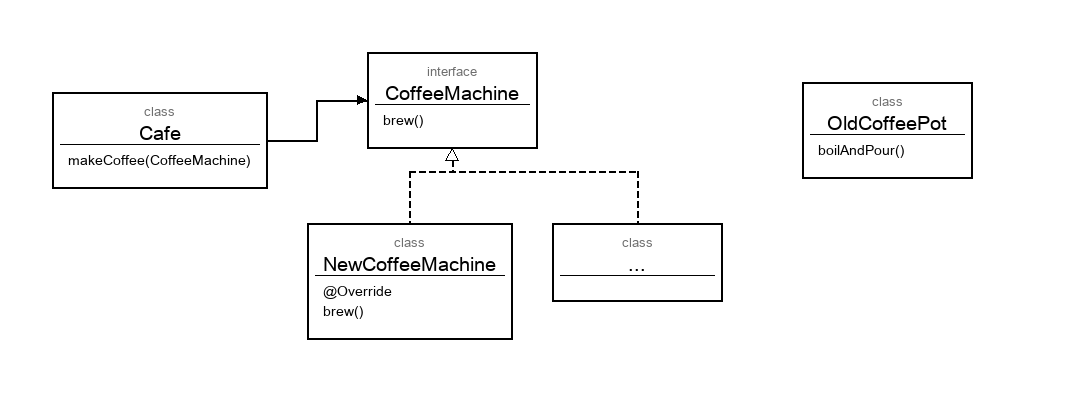
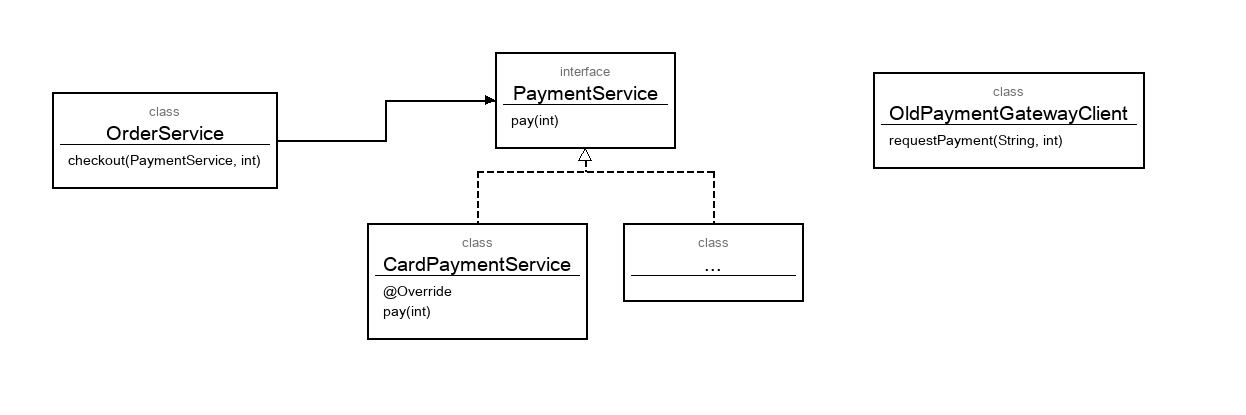
Replace adapter example with payment gateway integration.

diff --git a/adapter pattern/Main.java b/adapter pattern/Main.java
@@ -1,12 +1,11 @@
 public class Main {
     public static void main(String[] args) {
-        Cafe cafe = new Cafe();
+        OrderService orderService = new OrderService();
 
-        CoffeeMachine newMachine = new NewCoffeeMachine();
-        cafe.makeCoffee(newMachine);
+        orderService.checkout(new CardPaymentService(), 5000);
 
-        OldCoffeePot oldPot = new OldCoffeePot();
-        CoffeeMachine adaptedPot = new CoffeePotAdapter(oldPot);
-        cafe.makeCoffee(adaptedPot);
+        PaymentService oldPgPayment =
+                new OldPaymentGatewayAdapter(new OldPaymentGatewayClient(), "CAFE001");
+        orderService.checkout(oldPgPayment, 5000);
     }
 }

diff --git a/adapter pattern/OldPaymentGatewayAdapter.java b/adapter pattern/OldPaymentGatewayAdapter.java
@@ -1,0 +1,14 @@
+public class OldPaymentGatewayAdapter implements PaymentService {
+    private OldPaymentGatewayClient client;
+    private String storeId;
+
+    public OldPaymentGatewayAdapter(OldPaymentGatewayClient client, String storeId) {
+        this.client = client;
+        this.storeId = storeId;
+    }
+
+    @Override
+    public void pay(int amount) {
+        client.requestPayment(storeId, amount);
+    }
+}

diff --git a/adapter pattern/OldPaymentGatewayClient.java b/adapter pattern/OldPaymentGatewayClient.java
@@ -1,0 +1,5 @@
+public class OldPaymentGatewayClient {
+    public void requestPayment(String storeId, int price) {
+        System.out.println("PG 결제 요청: 가맹점=" + storeId + ", 금액=" + price);
+    }
+}

diff --git a/adapter pattern/CardPaymentService.java b/adapter pattern/CardPaymentService.java
@@ -1,0 +1,6 @@
+public class CardPaymentService implements PaymentService {
+    @Override
+    public void pay(int amount) {
+        System.out.println("카드 결제 완료: " + amount + "원");
+    }
+}

diff --git a/adapter pattern/OrderService.java b/adapter pattern/OrderService.java
@@ -1,0 +1,5 @@
+public class OrderService {
+    public void checkout(PaymentService paymentService, int amount) {
+        paymentService.pay(amount);
+    }
+}

diff --git a/adapter pattern/PaymentService.java b/adapter pattern/PaymentService.java
@@ -1,0 +1,3 @@
+public interface PaymentService {
+    void pay(int amount);
+}
